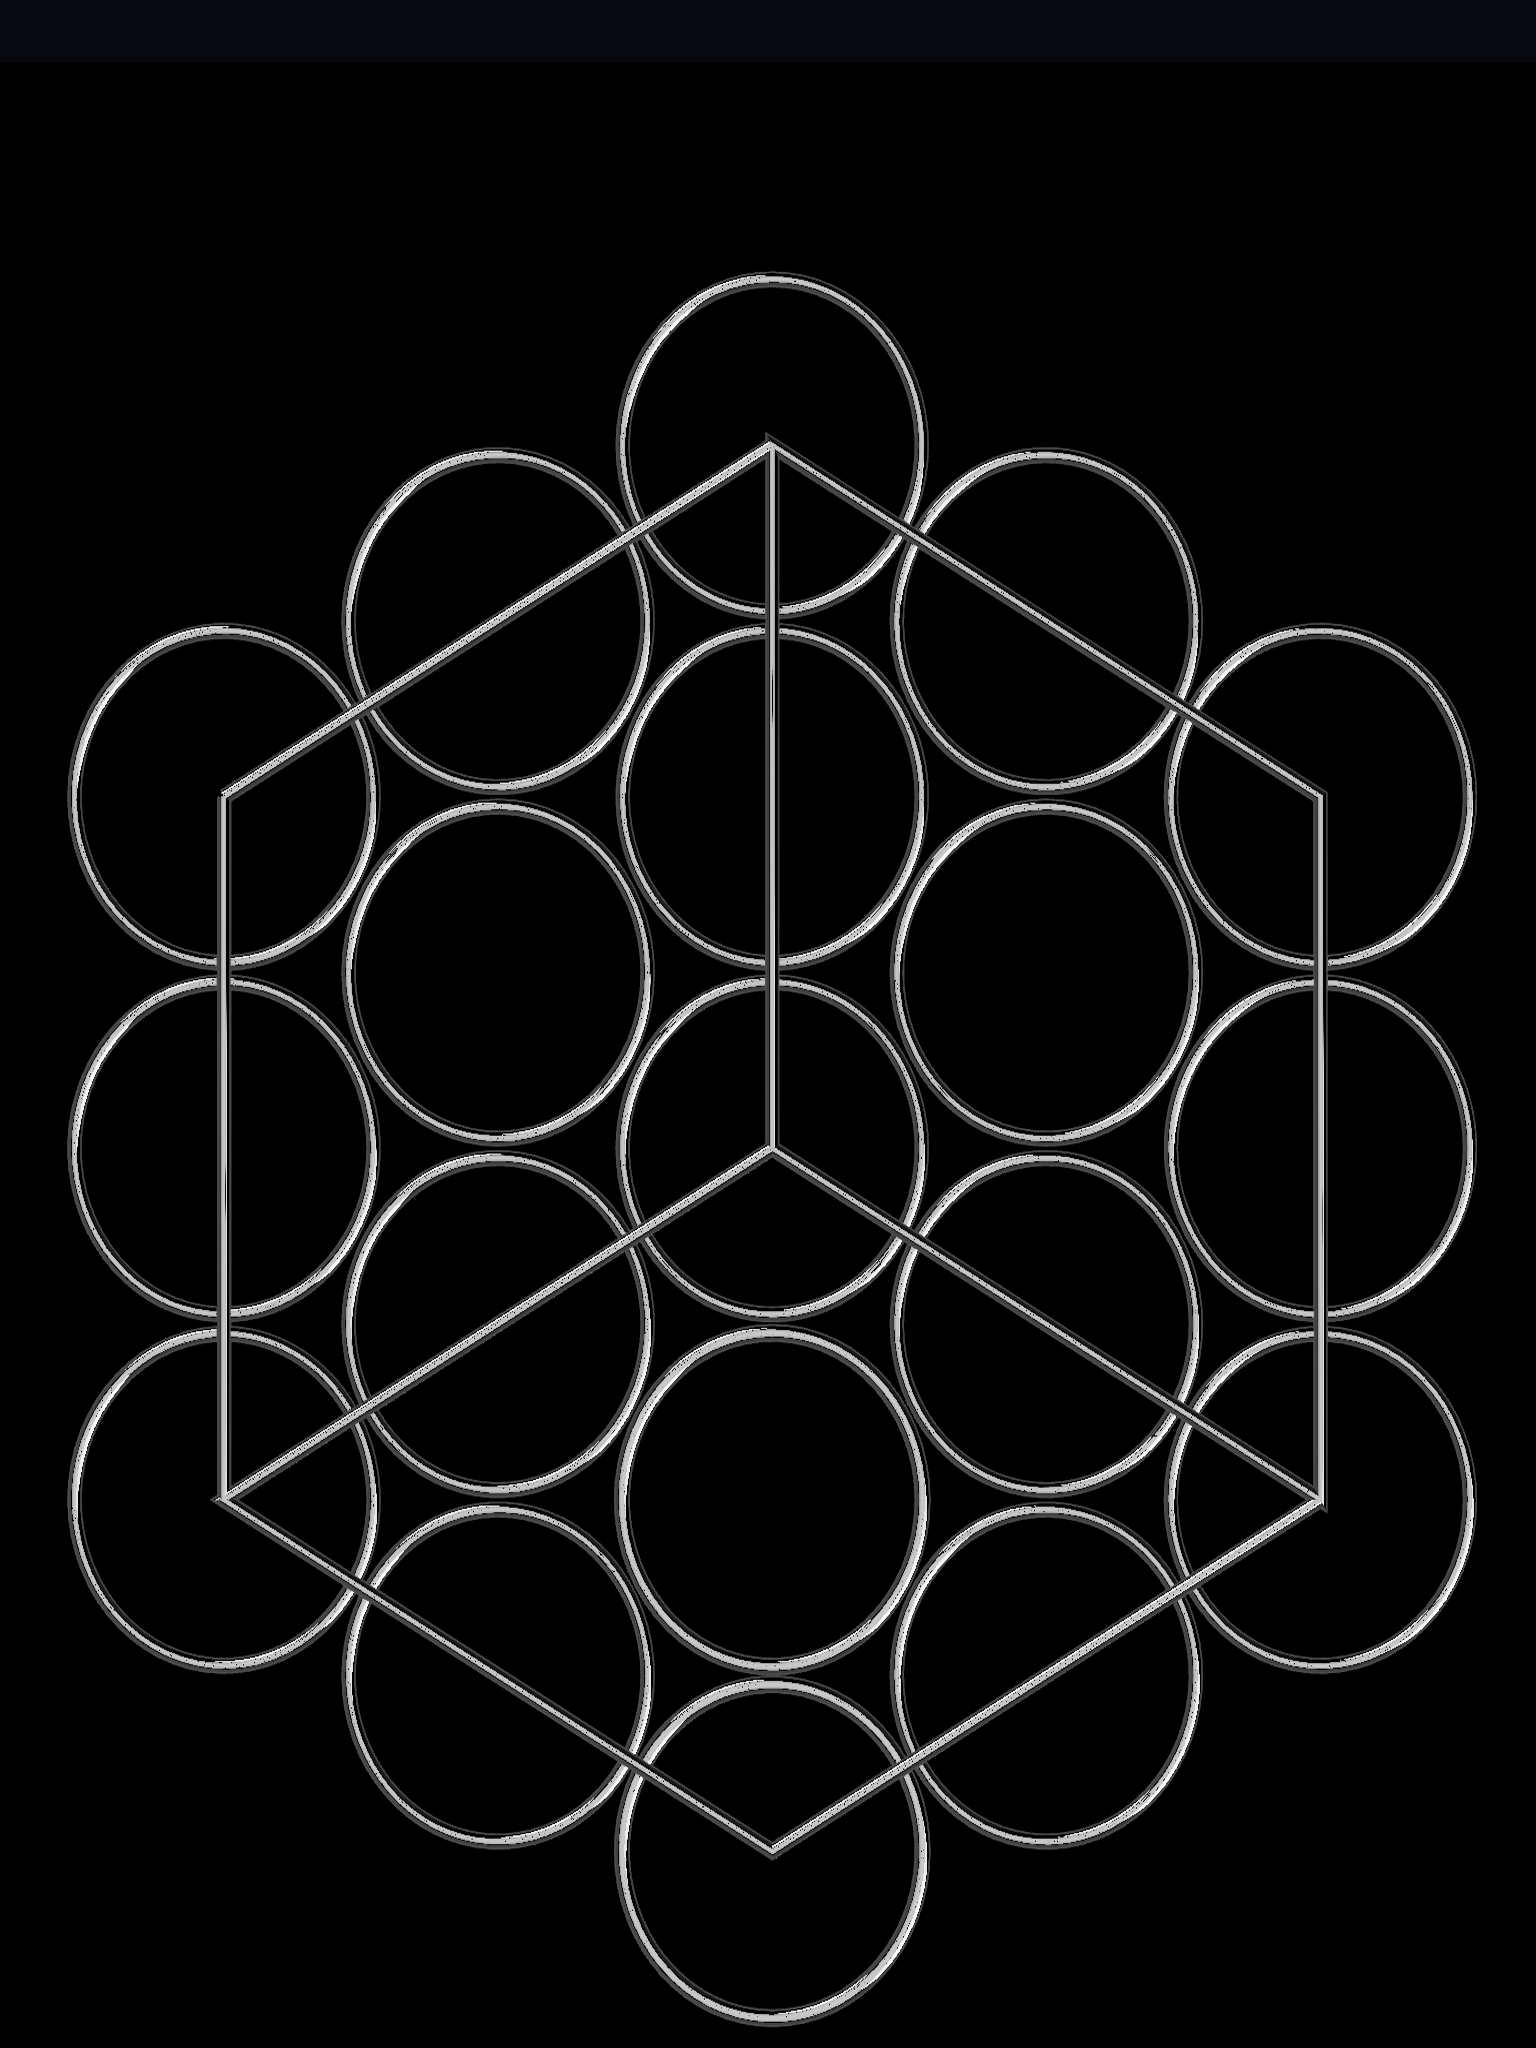
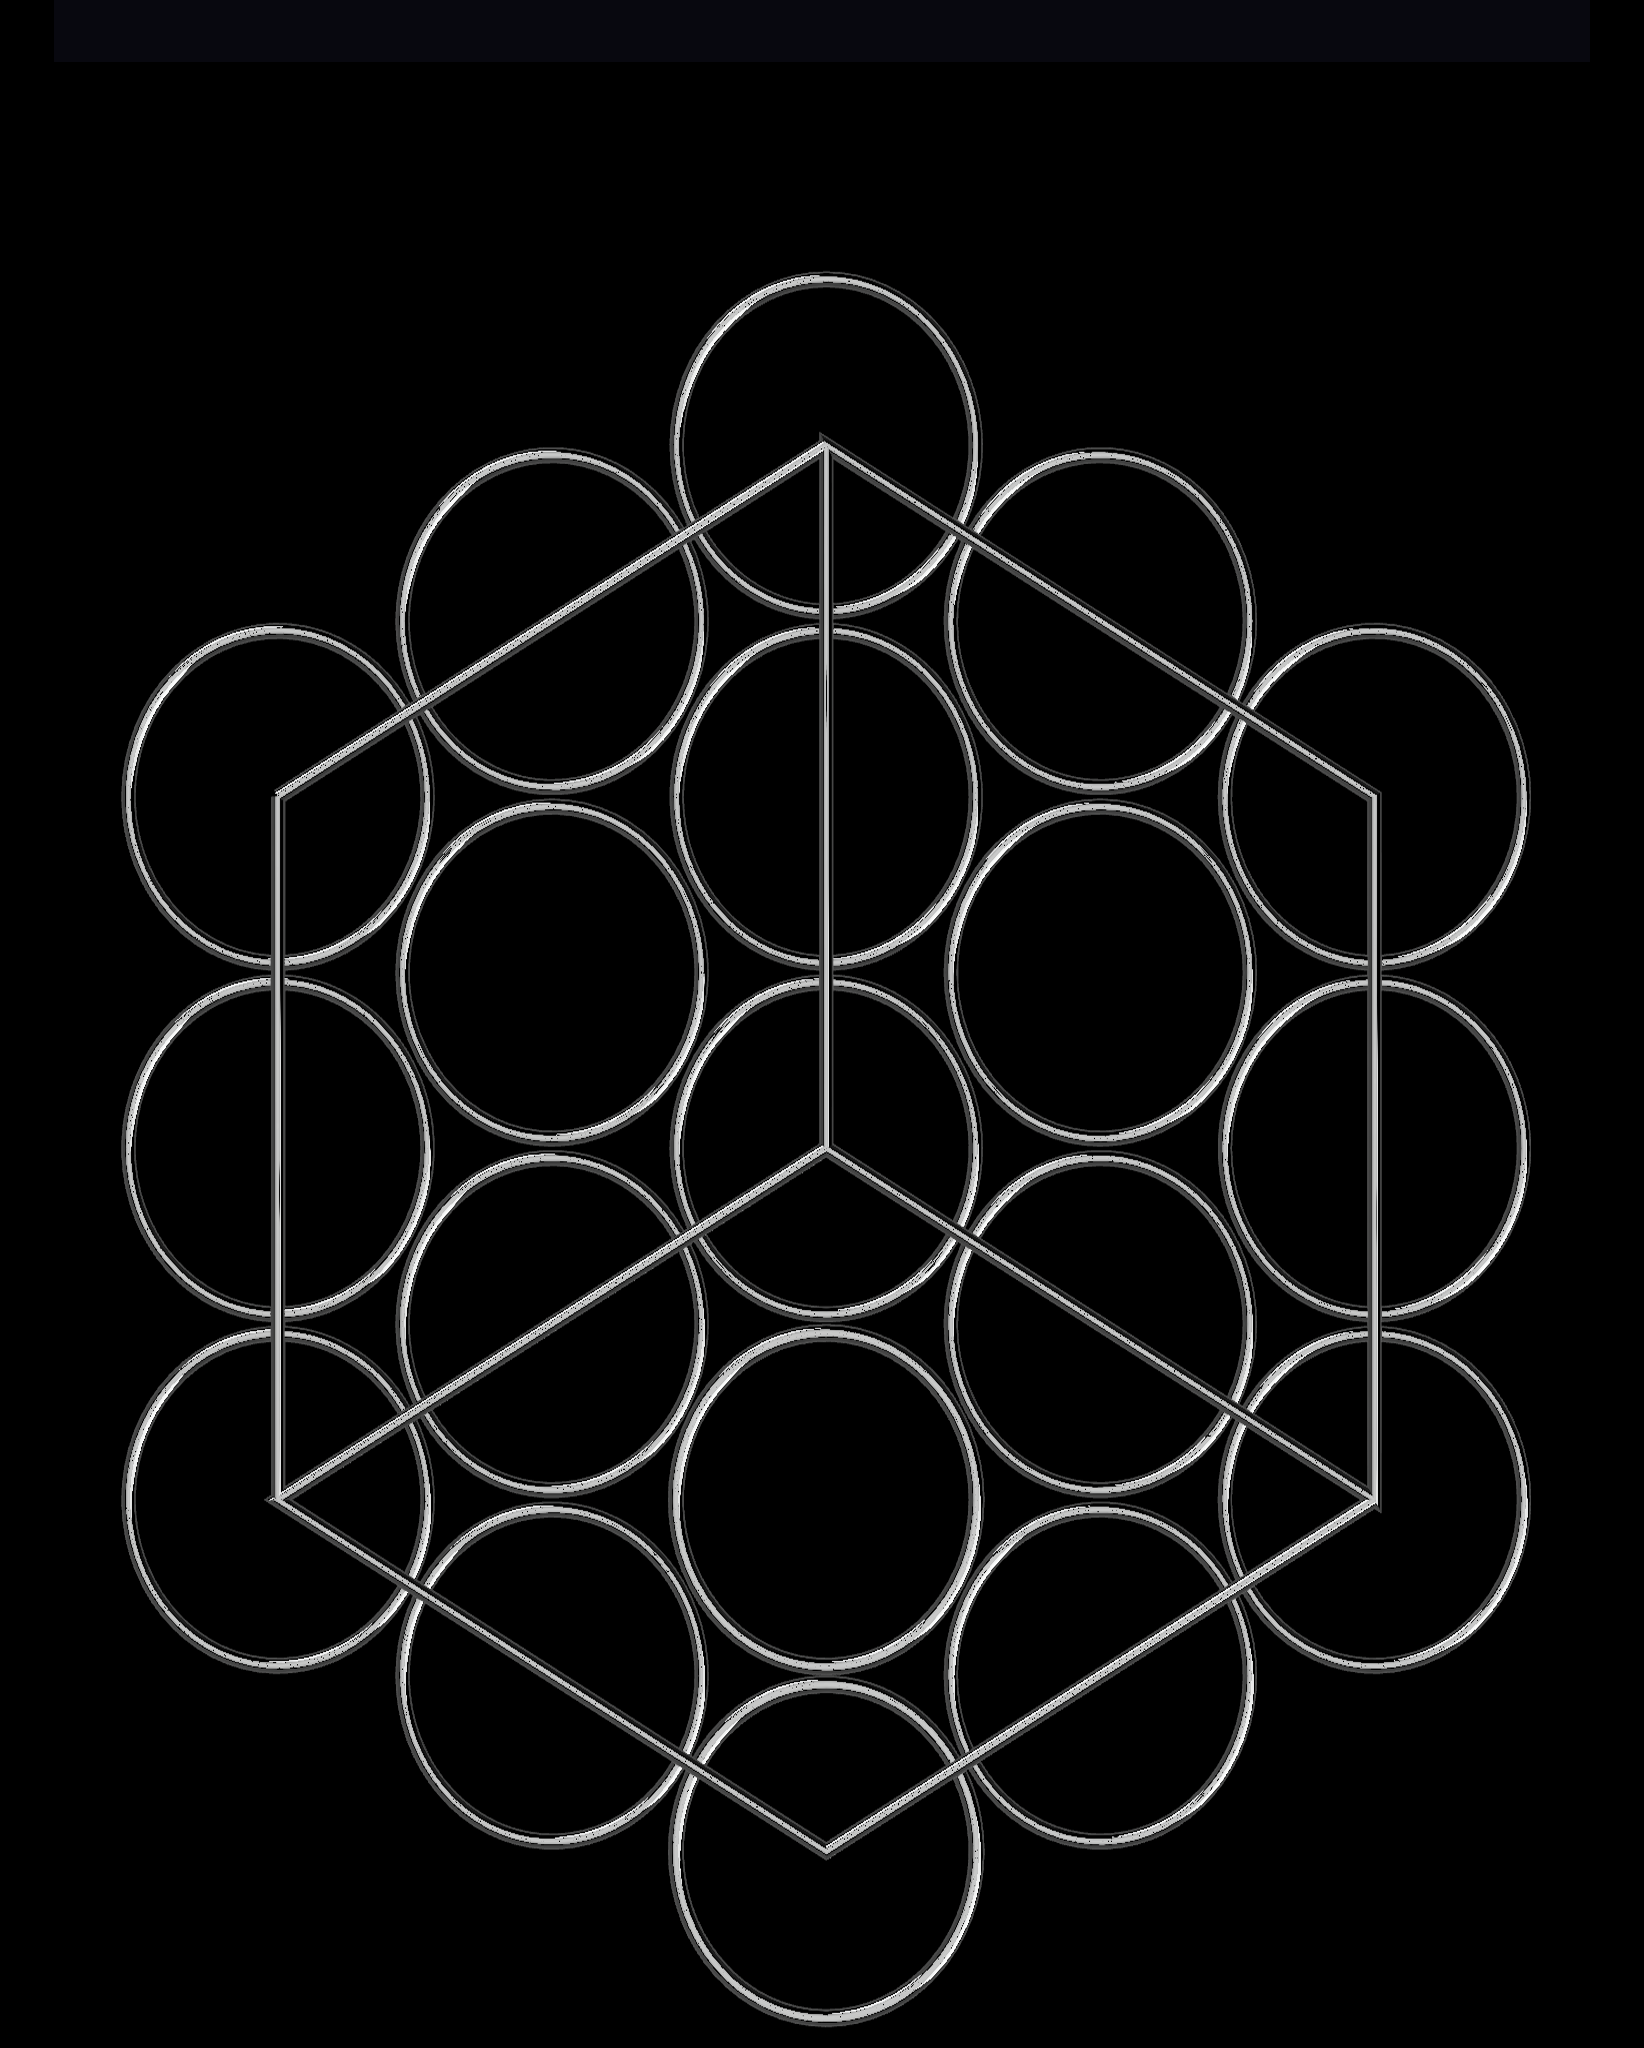
-

diff --git a/src/business/business-with-dock-opened/business-with-dock-opened.js b/src/business/business-with-dock-opened/business-with-dock-opened.js
@@ -4,17 +4,19 @@ import business from '../../images/Business.png';
 import TreeButton from '../../shared/tree-button/tree-button';
 import MedicalInfoButton from '../../shared/medical-info-button/medical-info-button';
 import BusinessWithDockOpened from '../../shared/business-dock/business-with-dock-opened/business-with-dock-opened';
+import BusinessRemainingButtons from '../../shared/business/business-remaining-buttons';
 //import ConsumerWithDockOpened from '../../shared/consumer-dock/consumer-with-dock-opened/consumer-with-dock-opened';
 
 // So you would add an onclick event where the router would take you to the route specified. 
 
 function Business() {
     return (
-        <div className="business-container">
-        <img className="business-image" src={ business } alt="text" />
+        <div className="business-with-dock-opened-parent">
+        <img className="business-with-dock-opened-image" src={ business } alt="text" />
         <BusinessWithDockOpened></BusinessWithDockOpened>
         <TreeButton></TreeButton>
         <MedicalInfoButton></MedicalInfoButton>
+        <BusinessRemainingButtons></BusinessRemainingButtons>
         </div>
     );
   }

diff --git a/src/business/business.js b/src/business/business.js
@@ -4,18 +4,26 @@ import business from '../images/Business.png';
 import ConsumerDock from '../shared/consumer-dock/consumer-dock';
 import TreeButton from '../shared/tree-button/tree-button';
 import MedicalInfoButton from '../shared/medical-info-button/medical-info-button';
+import BusinessRemainingButtons from '../shared/business/business-remaining-buttons';
 
 
 // So you would add an onclick event where the router would take you to the route specified. 
 
 function Business() {
     return (
-        <div className="">
+        <div className="business-parent">
+        <div className="business-child">
         <img className="business-image" src={ business } alt="text" />
         <ConsumerDock></ConsumerDock>
+        <div>
         <TreeButton></TreeButton>
         <MedicalInfoButton></MedicalInfoButton>
+        <BusinessRemainingButtons></BusinessRemainingButtons>
         </div>
+        </div>
+        </div>
+
+
     );
   }
   

diff --git a/src/consumer/consumer.js b/src/consumer/consumer.js
@@ -14,6 +14,7 @@ import DashboardButton from '../shared/dashboard-button/dashboard-button';
 import ProductsButtons from '../shared/products-buttons/products-buttons';
 import MessagingButtons from '../shared/messaging-buttons/messaging-buttons';
 import ConsumerFinancialsButtons from '../shared/consumer-financials-buttons/consumer-financials-buttons';
+import RemainingButtons from '../shared/remaining-buttons/remaining-buttons';
 
 function Consumer() {
     return (
@@ -34,6 +35,7 @@ function Consumer() {
         <ProductsButtons></ProductsButtons>
         <MessagingButtons></MessagingButtons>
         <ConsumerFinancialsButtons></ConsumerFinancialsButtons>
+        <RemainingButtons></RemainingButtons>
         </div>
         </div>
         </div>

diff --git a/src/shared/business/business-remaining-buttons.js b/src/shared/business/business-remaining-buttons.js
@@ -1,0 +1,16 @@
+import React from 'react';
+import './business-remaining-buttons.css';
+import CapexButton from './capex-button';
+import LaborButton from './labor-button';
+import OperationsButton from './operations-button';
+
+export default function BusinessRemainingButtons() {
+
+    return (
+        <div class="business-remaining-buttons-parent">
+            <CapexButton></CapexButton>
+            <LaborButton></LaborButton>
+            <OperationsButton></OperationsButton>
+        </div>
+    );
+  }

diff --git a/src/shared/business/operations-button.css b/src/shared/business/operations-button.css
@@ -1,0 +1,20 @@
+.operations-button-parent {
+    display: flex;
+    align-items: center;
+    justify-content: center;
+}
+
+.operations-button {
+    width: 100px;
+    font-family: Montserrat;
+    font-size: 25px;
+    padding-left: 2px;
+    height: 45px;
+    position: relative;
+    left:  517px;
+    bottom: 1450px;
+    background-color: black;
+    color: white;
+    border:black;
+    text-decoration: none;
+}

diff --git a/src/shared/business/capex-button.css b/src/shared/business/capex-button.css
@@ -1,0 +1,20 @@
+.capex-button-parent {
+    display: flex;
+    align-items: center;
+    justify-content: center;
+}
+
+.capex-button {
+    width: 100px;
+    font-family: Montserrat;
+    font-size: 25px;
+    padding-left: 2px;
+    height: 45px;
+    position: relative;
+    left:  1019px;
+    bottom: 922px;
+    background-color: black;
+    color: white;
+    border:black;
+    text-decoration: none;
+}

diff --git a/src/shared/business/labor-button.css b/src/shared/business/labor-button.css
@@ -1,0 +1,20 @@
+.labor-button-parent {
+    display: flex;
+    align-items: center;
+    justify-content: center;
+}
+
+.labor-button {
+    width: 100px;
+    font-family: Montserrat;
+    font-size: 25px;
+    padding-left: 2px;
+    height: 45px;
+    position: relative;
+    left:  369px;
+    bottom: 922px;
+    background-color: black;
+    color: white;
+    border:black;
+    text-decoration: none;
+}

diff --git a/src/shared/business/operations-button.js b/src/shared/business/operations-button.js
@@ -1,0 +1,14 @@
+import './operations-button.css';
+import React from 'react'
+import { Link } from "react-router-dom";
+
+export default function OperationsButton() {
+
+    return (
+        <div class="operations-button-parent">
+        <Link to="/Operations">
+        <button className="operations-button">Operations</button>
+        </Link>
+        </div>
+    );
+  }

diff --git a/src/shared/business/capex-button.js b/src/shared/business/capex-button.js
@@ -1,0 +1,14 @@
+import './capex-button.css';
+import React from 'react'
+import { Link } from "react-router-dom";
+
+export default function CapexButton() {
+
+    return (
+        <div class="capex-button-parent">
+        <Link to="/Capex">
+        <button className="capex-button">Capex</button>
+        </Link>
+        </div>
+    );
+  }

diff --git a/src/shared/business/labor-button.js b/src/shared/business/labor-button.js
@@ -1,0 +1,14 @@
+import './labor-button.css';
+import React from 'react'
+import { Link } from "react-router-dom";
+
+export default function LaborButton() {
+
+    return (
+        <div class="labor-button-parent">
+        <Link to="/Labor">
+        <button className="labor-button">Labor</button>
+        </Link>
+        </div>
+    );
+  }

diff --git a/src/business/business.css b/src/business/business.css
@@ -1,4 +1,16 @@
 .business-image {
-    display: relative;
-    padding-left:0px;
+    top: 60px;
+    position: relative;
+    height: 2048px;
+    width: 1540px;
+}
+
+.business-parent {
+    display: flex;
+    align-items: center;
+    justify-content: center;
+}
+
+.business-child {
+    padding-top: 430px;
 }

diff --git a/src/business/business-with-dock-opened/business-with-dock-opened.css b/src/business/business-with-dock-opened/business-with-dock-opened.css
@@ -1,3 +1,11 @@
-.business-container {
-    
+.business-with-dock-opened-image {
+    position: relative;
 }
+
+.business-with-dock-opened-parent {
+    /* display: flex;
+    align-items: center;
+    justify-content: center; */
+    padding-top: 32px
+}
+
